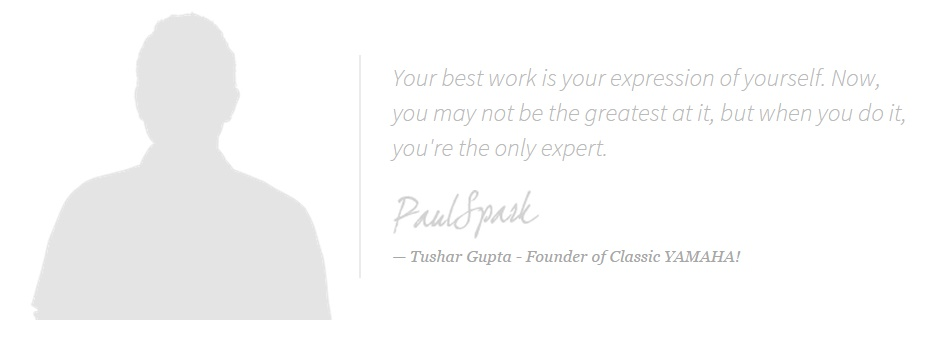
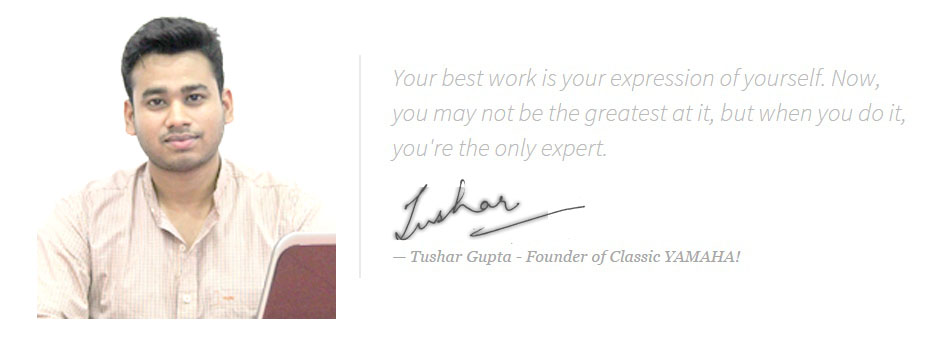
gggg

Changed region(s): [[0.0311, 0.029, 0.373, 0.9275], [0.4041, 0.5217, 0.6217, 0.6957]]

diff --git a/index.html b/index.html
@@ -1,4 +1,4 @@
-<!DOCTYPE html>
+<!DOCTYPE html>
 <!--[if lt IE 7 ]><html class="ie ie6" lang="en"> <![endif]-->
 <!--[if IE 7 ]><html class="ie ie7" lang="en"> <![endif]-->
 <!--[if IE 8 ]><html class="ie ie8" lang="en"> <![endif]-->
@@ -61,7 +61,7 @@
             <div class="logo"><img src="images/logo.png"></div>
             <h1 class="small">Classic Yamaha</h1>
             <div class="intro-line"></div>
-            <p>Auto Sales & Services </p><p>A Complete solution for Yamaha Bikes & Scooters</p>
+            <p>Auto Sales & Services </p><p>A Complete solution to Yamaha</p>
             <div class="intro-line"></div>
             <ul class="socialme pull-left">
 
@@ -137,13 +137,13 @@
             <!-- end sixteen columns -->
 
             <div class="eight columns">
-                <p>At Classic Yamaha we the Exclusive & Trusted Brand renowned for marketing and sales of YAMAHA products, focusing on serving our customer where we can build long term relationships by raising their lifestyle through performance excellence, proactive design & innovative technology. Our innovative solutions will always exceed the changing needs of our customers and provide value added vehicles.</p>
+                <p>Classic Yamaha an exclusive & trusted brand for marketing and sales of Yamaha products, focusing on serving our customer where we can build long term relationship with our customers. Our innovative solutions will always exceed the changing needs of our customers and provide value added solutions.</p>
             </div>
 
             <div class="eight columns">
                 <ul>
                     <li>What we are capable of..</li>
-                    <li>► Variety of Motorbikes and Scooters.</li>
+                    <li>► Range of Motorbikes and Scooters.</li>
                     <li>► Trust ranging with sky. </li>
                     <li>► Servicing is our priority.</li>
                     <li>► Customer satisfaction with a smile is our goal.</li>
@@ -189,7 +189,7 @@
                     <img src="images/thumb1.jpg" class="scale-with-grid" alt="" />
                    
                     <p class="proj-title">Motorbikes & Scooter Sales</p>
-                    <p class="proj-desc">All variety of Yamaha available with us.</p>
+                    <p class="proj-desc">All bikes & scooters of Yamaha available with us.</p>
                 </div>
              
 
@@ -290,22 +290,9 @@
                             <li><img src="images/serv1.jpg" alt="" /></li>
                             <li><img src="images/serv2.jpg" alt="" /></li>
                             <li><img src="images/serv3.jpg" alt="" /></li>
-			<li><img src="images/serv4.jpg" alt="" /></li>
+							<li><img src="images/serv4.jpg" alt="" /></li>
                             <li><img src="images/serv5.jpg" alt="" /></li>
                             <li><img src="images/serv6.jpg" alt="" /></li>
-<li><img src="images/serv7.jpg" alt="" /></li>
-                            <li><img src="images/serv8.jpg" alt="" /></li>
-                            <li><img src="images/serv9.jpg" alt="" /></li>
-<li><img src="images/serv10.jpg" alt="" /></li>
-                            <li><img src="images/serv11.jpg" alt="" /></li>
-                            
-<li><img src="images/serv12.jpg" alt="" /></li>
-                            <li><img src="images/serv13.jpg" alt="" /></li>
-                            <li><img src="images/serv14.jpg" alt="" /></li>
-<li><img src="images/serv15.jpg" alt="" /></li>
-                            <li><img src="images/serv16.jpg" alt="" /></li>
-                            
-
                         </ul>
                     </div>
                     <!-- end flexslider -->
@@ -369,7 +356,7 @@
                     <!-- end sixteen columns -->
 
                     <div class="one-third column">
-                        <img src="images/about-pic2.png" alt="" />
+                        <img src="images/tusharsmall.png" alt="" />
                         <p class="t-name">Tushar Gupta</p>
                         <p class="t-type">Director</p>
                         <p></p>
@@ -387,8 +374,8 @@
                     <!-- end one-third column -->
 
                     <div class="one-third column">
-                        <img src="images/about-pic3.png" alt="" />
-                        <p class="t-name">XXXXXXXXXX</p>
+                        <img src="images/apsaini.png" alt="" />
+                        <p class="t-name">A.P. Saini</p>
                         <p class="t-type">Service Head</p>
                         <p></p>
 
@@ -441,7 +428,7 @@
                     <div class="contact-form">
 
                         <div class="done">
-                            <b>Thank you!</b> We have received your message.
+                            <b>Thank you!</b> We have received your message. We Will Contact You Shortly!!
                         </div>
 
                         <form method="post" action="process.php">
@@ -468,7 +455,8 @@
 
                         <h5>Contact Info</h5>
 
-                        <p class="white"><i class="icon-phone"></i> +91-7678967896</p>
+                        <p class="white"><i class="icon-phone"></i> Showroom: +91-969-553-9317</p>
+						<p class="white"><i class="icon-phone"></i> WorkShop: +91-969-553-9194</p>
                         <p class="white"><i class="icon-mail"></i> classic.yamaha@gmail.com</p>
                         <p class="white"><i class="icon-home"></i> Opposite Daliganj Crossing, Beside Union Bank
                             <br /> Lucknow, Uttar Pradesh - 226020</p>
